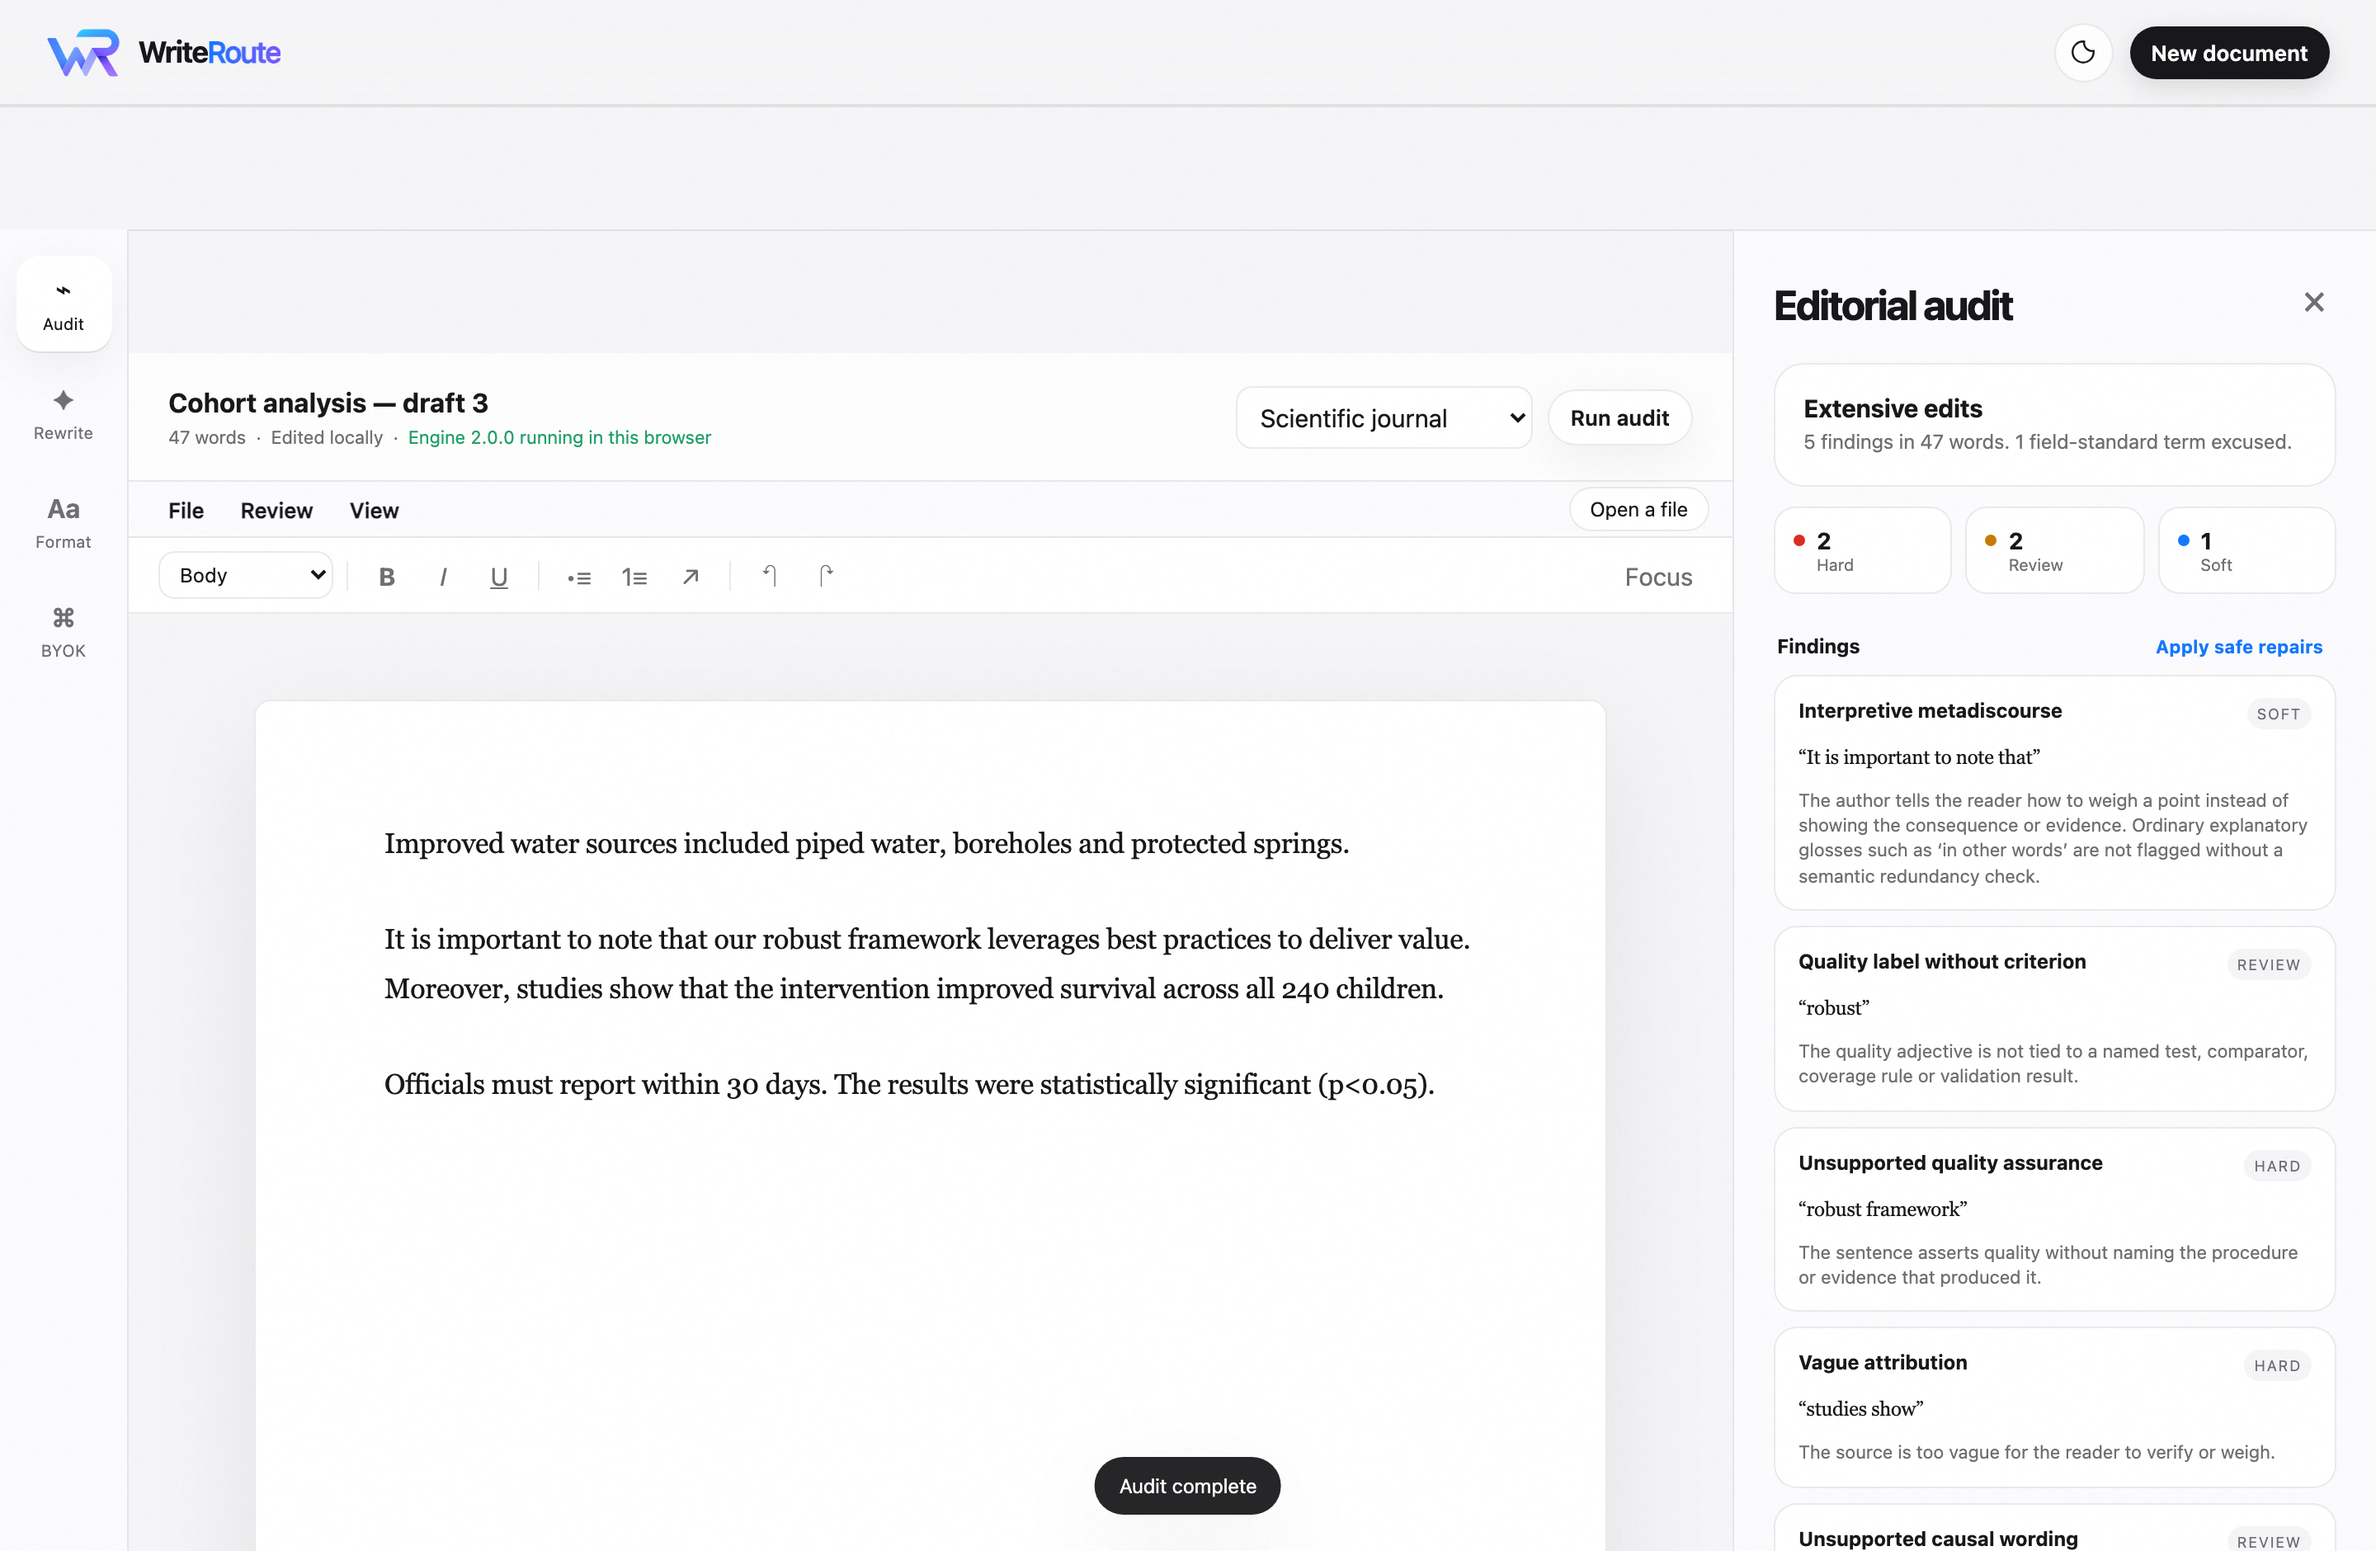
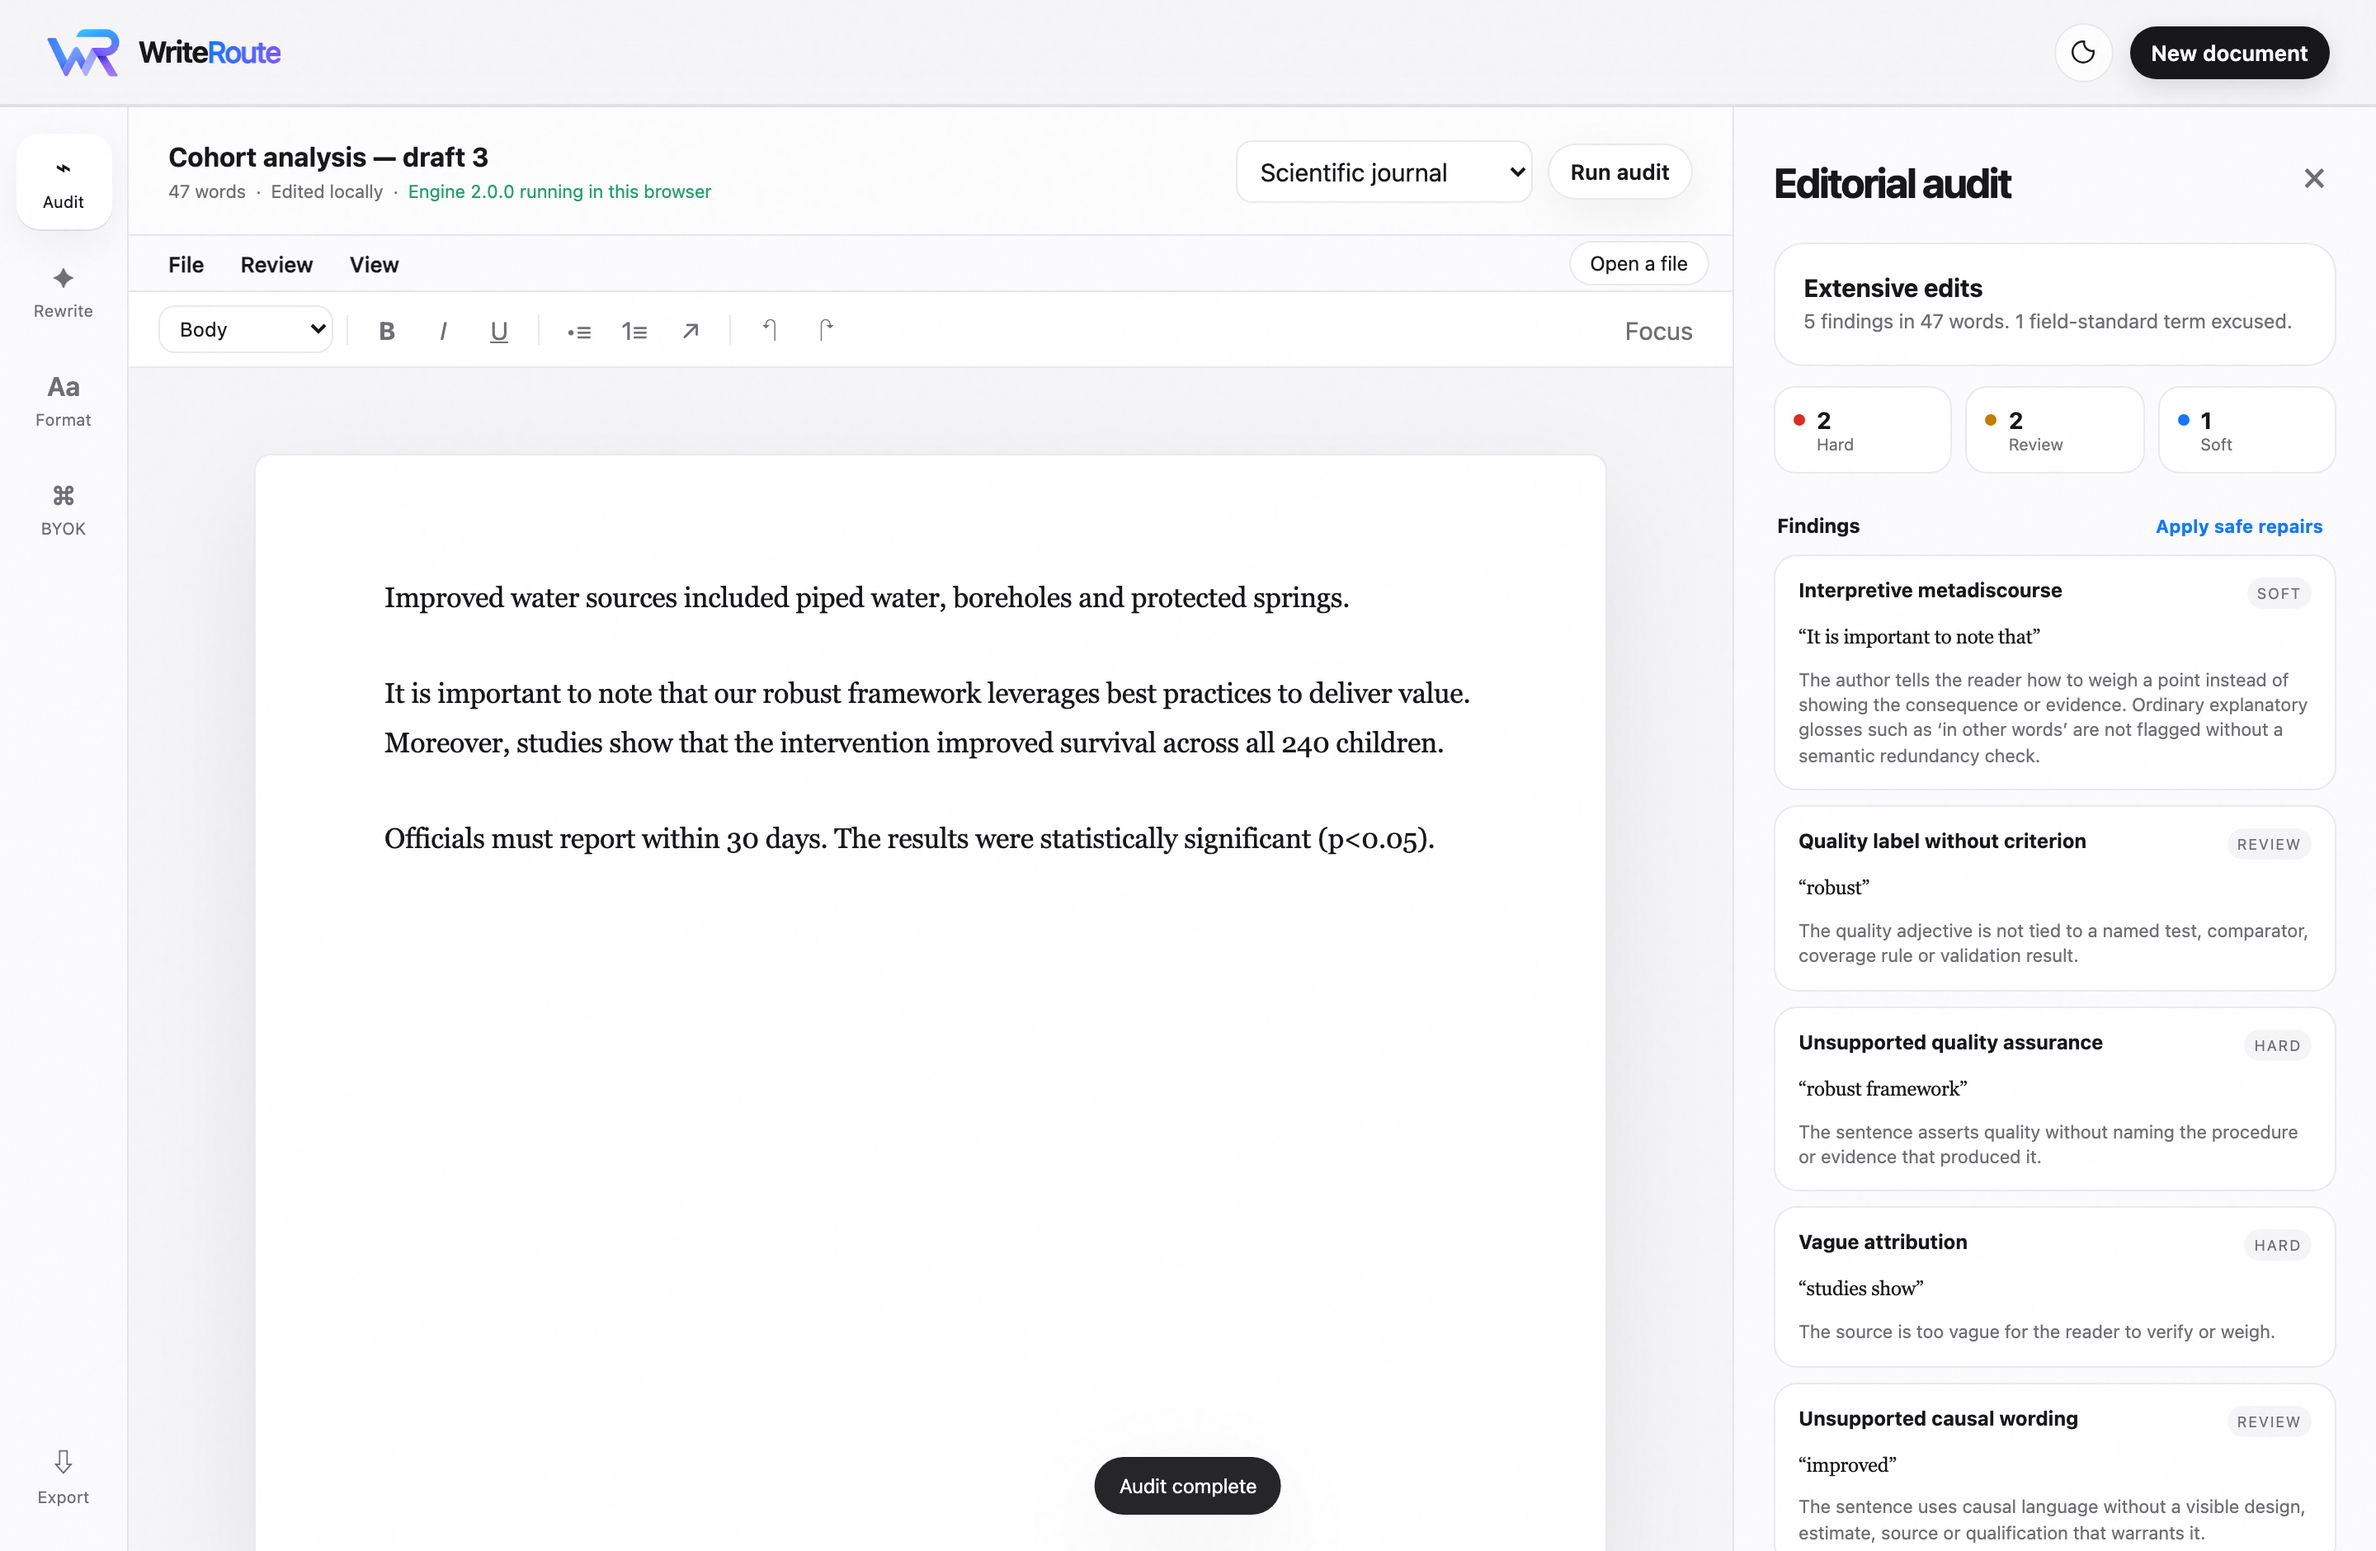
Fix the studio layout: a landing stylesheet was clipping the workspace
The studio shipped with the rail's first button and the inspector header pushed
out of view. Cause: landing.css carries a bare `section { padding: 74px 0 }`
rule and was linked into studio.html for one class. .workspace is a <section>,
so it inherited 74px of padding and its children were pushed down and out.

Every check passed while this was live, because nothing measured the rendered
page. scripts/check_layout.py now drives the studio at four viewports and fails
if the rail or inspector is clipped, if either is taller than the workspace, or
if the page scrolls as a whole instead of the editor scrolling in its pane. It
is wired into validate.sh.

Also fixed:
- landing.css is no longer linked into the studio, and its element selectors are
  scoped under .landing so the collision cannot recur.
- .workspace had no explicit grid row, so the implicit row was auto and grew to
  the editor's min-height, overflowing the viewport by ~115px. minmax(0, 1fr)
  with min-height:0 on the children constrains it.
- a stray </div> left behind when the invented stat counters were removed.

Verified at 1440x900, 1280x800, 1100x760 and 900x700: no clipping, no page
overflow.

diff --git a/landing.css b/landing.css
@@ -1,7 +1,8 @@
-/* Landing page only. The studio's own tokens and chrome come from styles.css; this
-   file adds the long-form page layout and nothing that the app depends on. */
+/* Landing page only. Every rule here is scoped under `.landing` on <body>: an earlier
+   version used bare element selectors, and linking this file into the studio gave
+   `section { padding: 74px 0 }` to .workspace, which pushed the rail and the inspector
+   out of the viewport. */
 
-.brand-logo { height: 30px; width: auto; display: block; }
 .wrap { max-width: 1080px; margin: 0 auto; padding: 0 28px; }
 
 .lead { padding: 96px 0 72px; text-align: center; }
@@ -21,13 +22,13 @@
 }
 .lead .actions { display: flex; gap: 12px; justify-content: center; margin-top: 34px; flex-wrap: wrap; }
 
-section { padding: 74px 0; border-top: 1px solid var(--line); }
-section > .wrap > .kicker { display: block; margin-bottom: 14px; }
-section h2 {
+.landing section { padding: 74px 0; border-top: 1px solid var(--line); }
+.landing section > .wrap > .kicker { display: block; margin-bottom: 14px; }
+.landing section h2 {
   font-size: clamp(27px, 3.4vw, 40px); letter-spacing: -.045em; line-height: 1.08;
   margin: 0 0 18px; max-width: 30ch; font-weight: 720;
 }
-section p.intro { font-size: 17px; line-height: 1.6; color: var(--muted); max-width: 68ch; margin: 0 0 36px; }
+.landing section p.intro { font-size: 17px; line-height: 1.6; color: var(--muted); max-width: 68ch; margin: 0 0 36px; }
 
 .grid { display: grid; gap: 18px; }
 .grid.three { grid-template-columns: repeat(3, 1fr); }
@@ -98,18 +99,18 @@ pre.shell .c { color: var(--muted); }
 .caveat p { margin: 0 0 10px; font-size: 13px; line-height: 1.6; color: var(--muted); }
 .caveat p:last-child { margin-bottom: 0; }
 
-footer {
+.landing footer {
   border-top: 1px solid var(--line); padding: 40px 0 64px; color: var(--muted); font-size: 12.5px;
 }
-footer .cols { display: flex; justify-content: space-between; gap: 28px; flex-wrap: wrap; }
-footer a { color: var(--muted); }
-footer a:hover { color: var(--text); }
+.landing footer .cols { display: flex; justify-content: space-between; gap: 28px; flex-wrap: wrap; }
+.landing footer a { color: var(--muted); }
+.landing footer a:hover { color: var(--text); }
 
 @media (max-width: 860px) {
   .grid.three, .grid.two { grid-template-columns: 1fr; }
   .gate-list { columns: 1; }
   .lead { padding: 60px 0 48px; }
-  section { padding: 54px 0; }
+  .landing section { padding: 54px 0; }
   .ledger { font-size: 12.5px; }
   .ledger th, .ledger td { padding: 9px 8px; }
 }

diff --git a/styles.css b/styles.css
@@ -61,3 +61,16 @@
   .menu-open-inline { display: none; }
   .menubar { overflow-x: auto; }
 }
+
+/* Shared brand mark, used by both the landing page and the studio header. */
+.brand-logo { height: 30px; width: auto; display: block; }
+
+/* The workspace grid had no explicit row, so the single implicit row was `auto` and grew
+   to the tallest child. The editor reserves a min-height, so the shell was ~115px taller
+   than the viewport and the page scrolled as a whole instead of the editor scrolling
+   inside its pane. minmax(0, 1fr) constrains the row; min-height:0 lets the children
+   actually shrink, which a grid item will not do by default. */
+.workspace { grid-template-rows: minmax(0, 1fr); }
+.workspace > * { min-height: 0; }
+.rail, .inspector { overflow-y: auto; }
+.document-shell.has-menubar { grid-template-rows: auto auto auto minmax(0, 1fr); }

diff --git a/studio.html b/studio.html
@@ -8,7 +8,6 @@
   <meta name="description" content="A preservation-first writing studio for finding AI-slop patterns, improving prose, and rewriting documents without flattening meaning or voice." />
   <link rel="icon" href="assets/favicon.png" />
   <link rel="stylesheet" href="styles.css" />
-  <link rel="stylesheet" href="landing.css" />
 </head>
 <body>
   <div class="noise" aria-hidden="true"></div>
@@ -32,7 +31,6 @@
       <div class="hero-actions">
         <label class="button primary file-button">Open a document<input id="fileInput" type="file" accept=".txt,.md,.markdown,.docx,.pdf,.rtf,.csv" hidden /></label>
         <button class="button secondary" id="startBlank">Start with blank page</button>
-      </div>
       </div>
     </section>
 

diff --git a/index.html b/index.html
@@ -10,7 +10,7 @@
   <link rel="stylesheet" href="styles.css" />
   <link rel="stylesheet" href="landing.css" />
 </head>
-<body>
+<body class="landing">
 <div class="noise" aria-hidden="true"></div>
 
 <header class="topbar">
